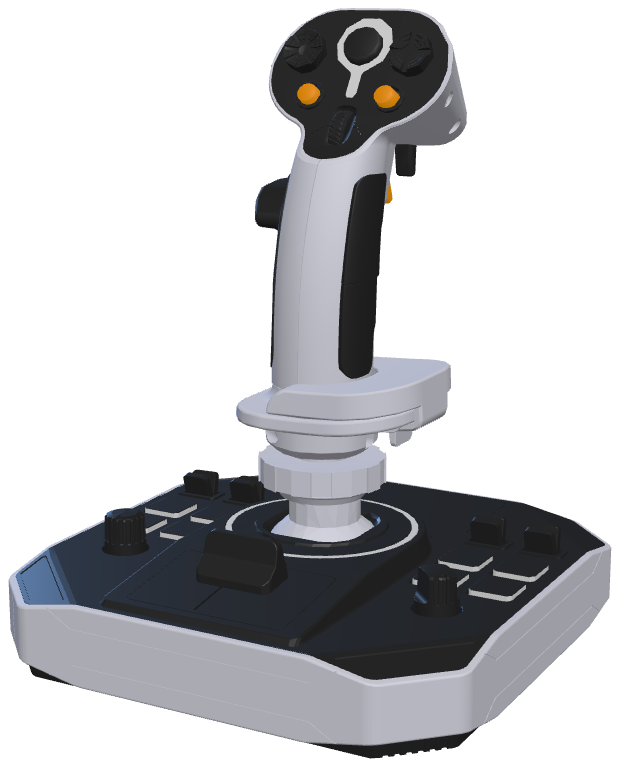
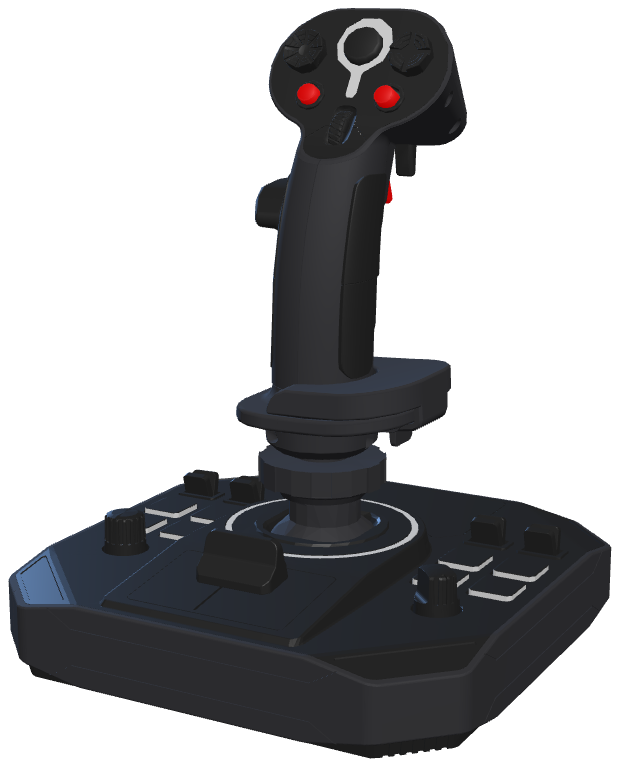
SOLR_BRC: the stick is the black edition, with red buttons
The converter recolours T.A.R.G.E.T.'s white Sol-R shell to black and its
orange buttons to the throttle's red; models and Devices pictures rebuilt.

diff --git a/tools/solr_model.py b/tools/solr_model.py
@@ -19,6 +19,14 @@ import struct
 import sys
 import xml.etree.ElementTree as ET
 
+# T.A.R.G.E.T. draws the white Sol-R with orange buttons; this one is the black
+# edition with red buttons (the same red as the throttle's). Only the colour
+# changes: "deschis" is the light shell, "red" the buttons it calls red.
+BLACK_EDITION = {
+    "deschis": {"base": (0.03, 0.03, 0.035, 1.0)},
+    "red": {"base": (0.46, 0.0, 0.0, 1.0), "emissive": (0.35, 0.0, 0.0)},
+}
+
 DEVCFG = pathlib.Path(r"C:\Program Files (x86)\Thrustmaster\TARGET\DevCfg")
 SRC = pathlib.Path(sys.argv[1]) if len(sys.argv) > 1 else DEVCFG / "Handle_SolR.xaml"
 if not SRC.is_absolute():
@@ -243,6 +251,7 @@ def build_glb(parts, materials):
                 continue
             if matkey not in mat_index:
                 spec = materials.get(matkey, {"base": FALLBACK, "emissive": (0, 0, 0), "rough": 0.6})
+                spec = {**spec, **BLACK_EDITION.get(matkey, {})}
                 r, g, b, a = spec["base"]
                 out_materials.append({
                     "name": matkey,
